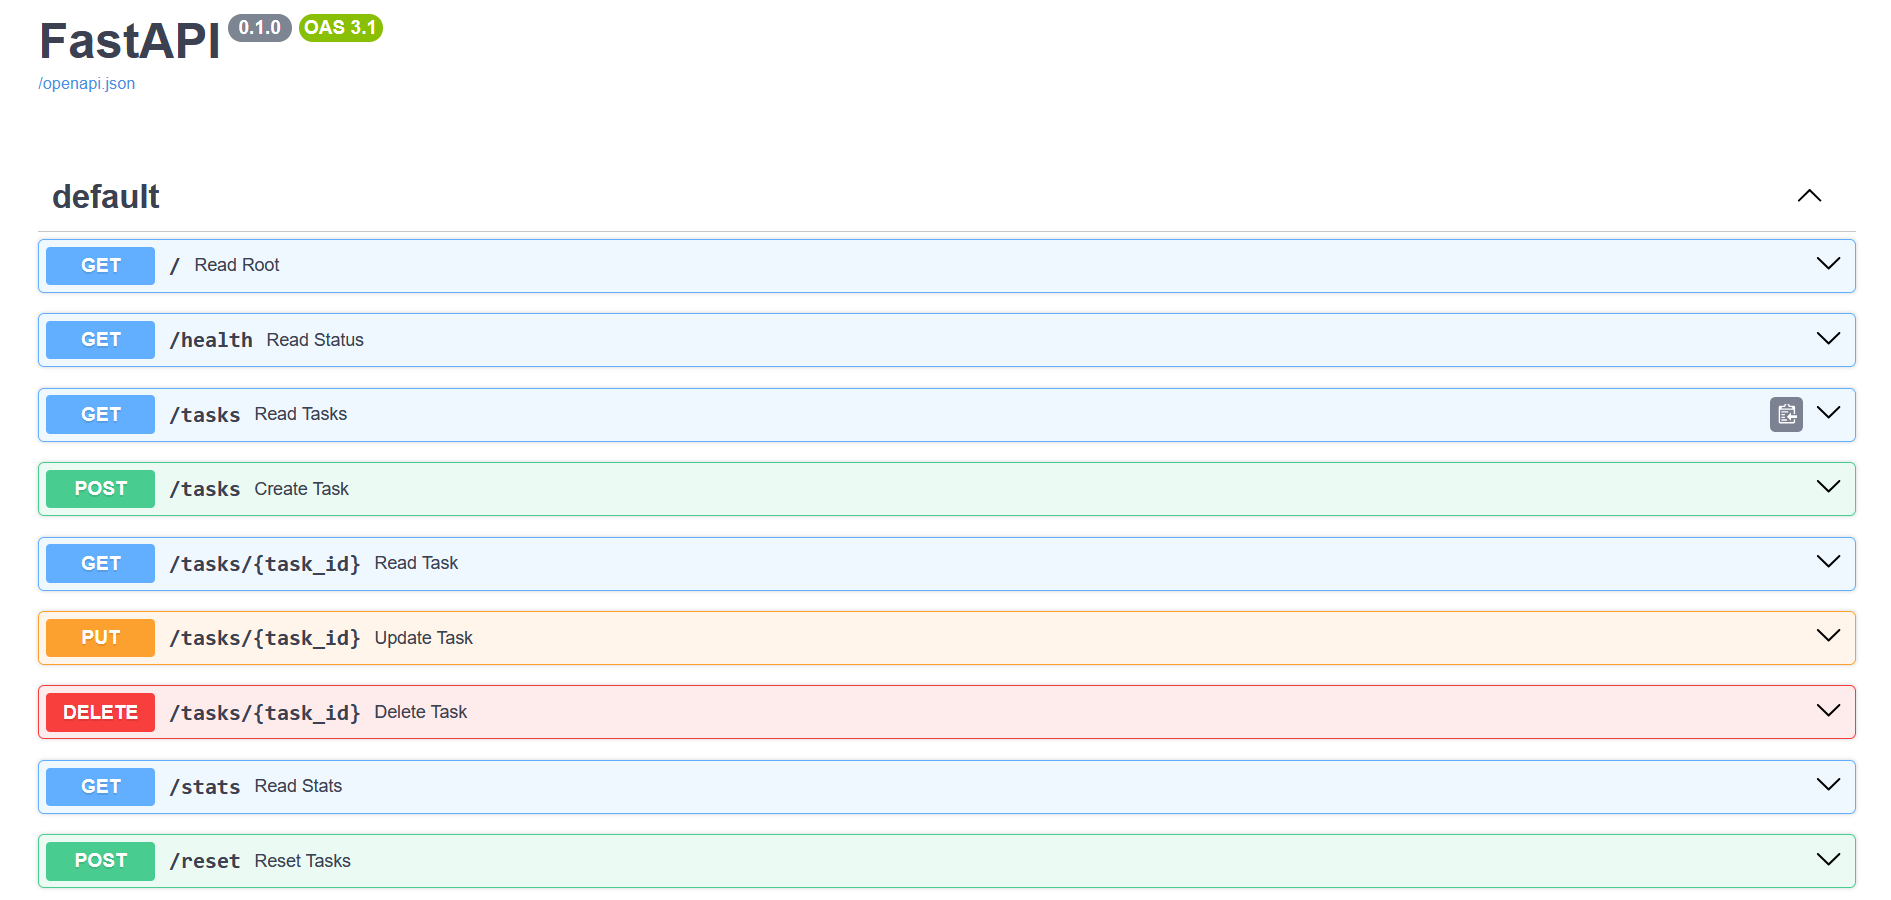
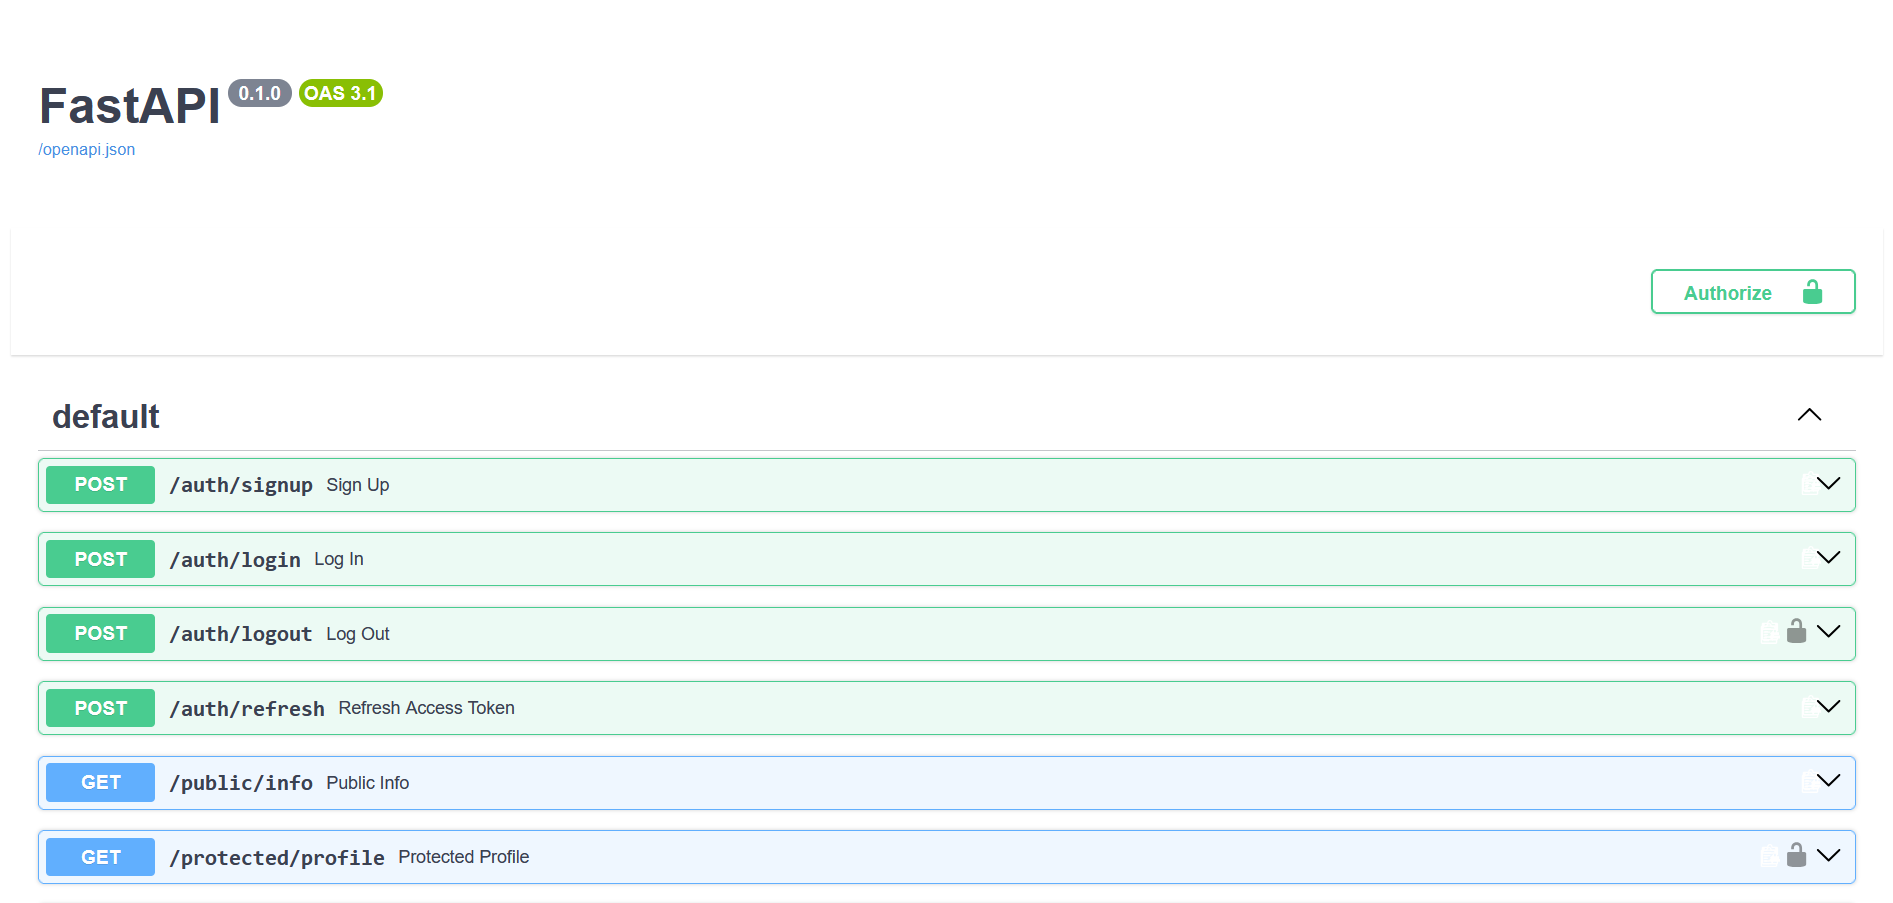
Update README

Changed region(s): [[0.0, 0.4356, 0.9984, 0.9956], [0.0, 0.0, 0.2184, 0.4044], [0.8736, 0.28, 0.9672, 0.3733]]

diff --git a/assignments/README.md b/assignments/README.md
@@ -19,14 +19,67 @@ The project demonstrates the implementation of CRUD (Create, Read, Update, Delet
 - Searching tasks by title
 - Sorting tasks by title or ID
 - Task statistics endpoint
-- Reset database to example data
-- Input validation with meaningful error responses
+- Reset the current user's tasks
+- Input validation
+- User authentication with Supabase
+- User-specific tasks and data isolation
+- Protected endpoints using JWT access tokens
+- Access token refresh using refresh tokens
+- User logout
+- Swagger UI authentication with Bearer tokens
+
+---
+
+## Authentication
+
+The API uses **Supabase Auth** for user authentication.
+
+Before using the authentication endpoints, create a new Supabase project.
+
+![Supabase](/assignments/screenshots/supabase.png)
+
+In the Supabase dashboard, go to `Authentication` → `Providers` → `Email` and disable `Confirm email`. This allows users to sign up and immediately log in without email verification.
+
+![Disable email](/assignments/screenshots/disable_email.png)
+
+With Supabase, users can:
+
+- Sign up with an email and password
+- Log in to receive an access token and refresh token
+- Use the access token to access protected endpoints
+- Refresh an expired access token using the refresh token
+- Log out from the current session
+
+Protected endpoints require an HTTP Bearer token:
+
+```http
+Authorization: Bearer <access_token>
+```
+
+Swagger UI provides an Authorize button that allows an access token to be entered once and reused for protected endpoints. Enter the access token as a Bearer token, then use Try it out to make authenticated requests.
+
+![FastAPI authorize button](/assignments/screenshots/authorize.png)
 
 ---
 
 ## Why PostgreSQL?
 
 PostgreSQL was chosen because it is a powerful and reliable relational database suitable for applications that may grow beyond a simple local setup. Unlike SQLite, PostgreSQL runs as a separate database server and supports multiple concurrent connections while providing strong data integrity and transaction features.
+
+---
+
+## Environment variables
+
+Create a `.env` file containing:
+
+```env
+DATABASE_URL=postgres://postgres:your_password@127.0.0.1:5432/tasks
+POSTGRES_USER=postgres
+POSTGRES_PASSWORD=your_password
+POSTGRES_DB=tasks
+SUPABASE_URL=https://xxxxx.supabase.co
+SUPABASE_KEY=sb_publishable_xxxxx
+```
 
 ---
 
@@ -46,6 +99,8 @@ For any subsequent runs use:
 ```bash
 docker compose up
 ```
+
+When running with Docker Compose, the `DATABASE_URL` is configured automatically using the PostgreSQL service name `db`. The `.env` value using `127.0.0.1` is intended for manual/local execution only.
 
 ---
 
@@ -88,16 +143,18 @@ Create a database named `tasks` and initialize its schema using `db/init.sql`.
 
 The connection string in `.env` should point to the local PostgreSQL instance:
 
-`DATABASE_URL=postgres://postgres:<password>@127.0.0.1:5432/tasks`
+`DATABASE_URL=postgres://your_user:your_password@127.0.0.1:5432/your_db_name`
 
 Adjust the username, password, and database name if your local PostgreSQL configuration differs.
 
+---
+
 ## Running the application
 
-Start the development server:
+Start the server:
 
 ```bash
-fastapi dev app/main.py
+fastapi run app/main.py
 ```
 
 The API will be available at:
@@ -122,11 +179,15 @@ The application uses PostgreSQL for persistent storage.
 
 When using Docker Compose, PostgreSQL runs in a Docker container, with its data stored in a persistent Docker volume called `taskdata`.
 
-The database schema and initial seed data are created automatically from `db/init.sql` when the database is initialized for the first time.
+The database schema is created automatically from `db/init.sql` when the database is initialized for the first time.
+
+Tasks are associated with a specific authenticated user through the `user_id` column. Each user's task operations are restricted to their own tasks.
 
 You can use **pgAdmin** or another PostgreSQL client to connect to and interact with the database.
 
 ![pgAdmin](/assignments/screenshots/pgAdmin.png)
+
+---
 
 ## API Endpoints
 
@@ -134,24 +195,48 @@ You can use **pgAdmin** or another PostgreSQL client to connect to and interact 
 
 - **GET /health** – Returns the current health status of the application.
 
-- **GET /tasks** – Returns a list of all tasks. Optional query parameters can be used to filter tasks by completion status (`done`), search tasks by title (`search`), and sort results by title or ID (`sort`).
+The following task-related endpoints are user-specific and require authentication:
+
+- **GET /tasks** – Returns a list of all user tasks. Optional query parameters can be used to filter tasks by completion status (`done`), search tasks by title (`search`), and sort results by title or ID (`sort`).
 Available sorting values:
 `title`,
 `-title`,
 `id` and
 `-id`.
 
-- **GET /tasks/{task_id}** – Returns the task with the specified ID.
+- **GET /tasks/{task_id}** – Returns the user task with the specified ID.
 
-- **GET /stats** - Returns counts of: all tasks, finished and unfinished ones.
+- **GET /stats** - Returns counts of: all user tasks, finished and unfinished ones.
 
-- **POST /tasks** – Creates a new task.
+- **POST /tasks** – Creates a new task for the current user.
 
-- **POST /reset** - Restores 3 example tasks and removes all newly added.
+- **POST /reset** - Deletes all tasks for the current user.
 
-- **PUT /tasks/{task_id}** – Updates the title and/or completion status of an existing task.
+- **PUT /tasks/{task_id}** – Updates the title and/or completion status of an existing user task.
 
-- **DELETE /tasks/{task_id}** – Deletes the task with the specified ID.
+- **DELETE /tasks/{task_id}** – Deletes the user task with the specified ID.
+
+### Authentication
+
+- **POST /auth/signup** – Creates a new user account using an email and password.
+
+- **POST /auth/login** – Authenticates a user and returns an access token and refresh token.
+
+- **POST /auth/refresh** – Uses a refresh token to obtain a new access token without requiring the user to log in again.
+
+- **POST /auth/logout** – Logs out the authenticated user. Requires a valid access token.
+
+### Protected Endpoints
+
+The following endpoints require authentication:
+
+- **GET /protected/profile** – Returns full information about the authenticated user.
+
+- **GET /protected/dashboard** – Returns a dashboard containing some brief information about the authenticated user.
+
+- **GET /protected/admin** – Demonstrates role-like authorization by allowing access only to the configured administrator.
+
+All task and statistics endpoints also require authentication. Users can only access their own tasks and statistics.
 
 ---
 
@@ -161,6 +246,7 @@ Create a new task:
 
 ```http
 POST /tasks
+Authorization: Bearer <access_token>
 Content-Type: application/json
 
 {
@@ -173,9 +259,10 @@ Example response:
 ```json
 {
     "id": 4,
+    "user_id": "<user_uuid>",
     "title": "New task",
     "done": false,
-    "created_at": "2026-08-04T14:30:00",
-    "updated_at": "2026-08-04T14:30:00"
+    "created_at": "2026-08-04T14:30:00Z",
+    "updated_at": "2026-08-04T14:30:00Z"
 }
 ```
